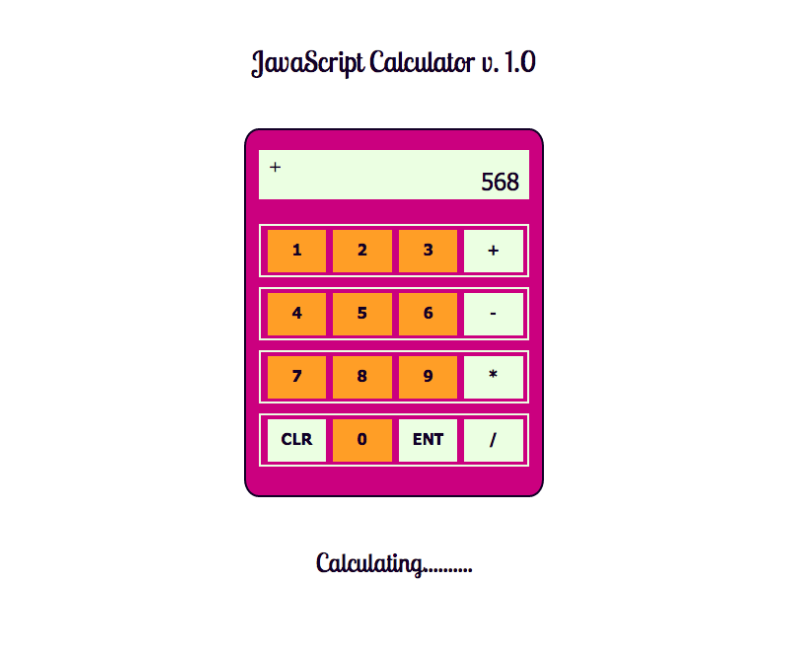
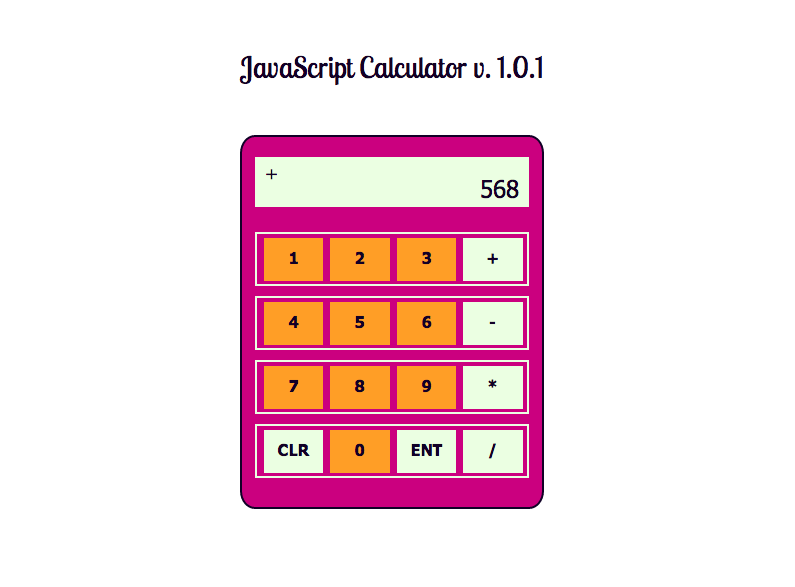
updated screenshot and refactored js

Changed region(s): [[0.2745, 0.184, 0.7014, 0.8893], [0.305, 0.0613, 0.7014, 0.1533]]

diff --git a/calculator.js b/calculator.js
@@ -1,7 +1,5 @@
 window.onload = function() {
 
-  ////////// VARIABLE DECLARATIONS
-
   // number button variable declarations
 
   var zeroButton = document.getElementById("zero");
@@ -32,28 +30,30 @@ window.onload = function() {
   var operatorDisplay = document.getElementById("operator_display");
   var resultDisplay = document.getElementById("result_display_value");
 
-  // div to hold text alerts during and after calculations
-
-  var calculateTracker = document.getElementById("calculate-tracker");
-
-  // number declarations
+  // variable holds hidden number
 
   var hiddenNum = "";
-
-
-  ////////// FUNCTIONS
 
   // number button function
 
   var numberFunction = function(numberButton) {
     numberButton.onclick = function(event) {
-      console.log(numberButton.innerHTML + ' was clicked!!!');
-      calculateTracker.innerHTML = 'Calculating..........';
       resultDisplay.innerHTML += numberButton.innerHTML;
-
-      console.log('The result display reads: ' + resultDisplay.innerHTML);
     }
   }
+
+  // number function calls
+
+  numberFunction(zeroButton);
+  numberFunction(oneButton);
+  numberFunction(twoButton);
+  numberFunction(threeButton);
+  numberFunction(fourButton);
+  numberFunction(fiveButton);
+  numberFunction(sixButton);
+  numberFunction(sevenButton);
+  numberFunction(eightButton);
+  numberFunction(nineButton);
 
   // operations function
 
@@ -76,50 +76,40 @@ window.onload = function() {
 
   var operatorFunction = function(operatorButton) {
     operatorButton.onclick = function(event) {
-      console.log(operatorButton.innerHTML + ' was clicked!!!');
-      
       if (resultDisplay.innerHTML !== "" && hiddenNum !== undefined) {
         operations(); 
       }
-
       hiddenNum = resultDisplay.innerHTML;
-      console.log('The held number is: ' + hiddenNum);
-
       resultDisplay.innerHTML = "";
       operatorDisplay.innerHTML = operatorButton.innerHTML;
     }
   }
 
+  // operator function calls
+
+  operatorFunction(plusButton);
+  operatorFunction(minusButton);
+  operatorFunction(timesButton);
+  operatorFunction(dividedByButton);
+
   // clear function
 
   var clearFunction = function(button, display) {
-    console.log('CLEARING!!!!!');
     display.innerHTML = "";
   }
-
-
-  ////////// CLEAR & ENTER
 
   // clear button
 
   clearButton.onclick = function(event) {
-    console.log('CLEAR was clicked!!!');
-
     clearFunction(clearButton, operatorDisplay);
     clearFunction(clearButton, resultDisplay);
-
-    calculateTracker.innerHTML = "";
     hiddenNum = "";
-
   }
 
   // enter button
 
   enterButton.onclick = function(event) {
-    console.log('ENTER was clicked!!!');
-
     if (resultDisplay.innerHTML === "") {
-
       if (operatorDisplay.innerHTML === "+") {
         resultDisplay.innerHTML = parseInt(hiddenNum) + parseInt(hiddenNum);
       }
@@ -133,37 +123,15 @@ window.onload = function() {
         resultDisplay.innerHTML = parseInt(hiddenNum) / parseInt(hiddenNum);
       }
     }
-
     else {
       operations();
     }
  
     clearFunction(enterButton, operatorDisplay);
-    console.log('The result is: ' + resultDisplay.innerHTML);
-    calculateTracker.innerHTML = 'The result is: ' + resultDisplay.innerHTML;
   }
 
-
-  ////////// FUNCTION CALLS
-
-  // number function calls
-
-  numberFunction(zeroButton);
-  numberFunction(oneButton);
-  numberFunction(twoButton);
-  numberFunction(threeButton);
-  numberFunction(fourButton);
-  numberFunction(fiveButton);
-  numberFunction(sixButton);
-  numberFunction(sevenButton);
-  numberFunction(eightButton);
-  numberFunction(nineButton);
-
-  // operator function calls
-
-  operatorFunction(plusButton);
-  operatorFunction(minusButton);
-  operatorFunction(timesButton);
-  operatorFunction(dividedByButton);
-
 }
+
+
+
+

diff --git a/calculator.html b/calculator.html
@@ -8,7 +8,7 @@
   <title>JavaScript Calculator</title>
 </head>
 <body>
-  <div id="heading">JavaScript Calculator v. 1.0</div>
+  <div id="heading">JavaScript Calculator v. 1.0.1</div>
   <div id="container">
      <div id="result_display">
        <div id="operator_display"></div>
@@ -44,7 +44,10 @@
      </div>
 
   </div>
-  <div id="calculate-tracker"></div>
 </body>
 
 </html>
+
+
+
+

diff --git a/style.css b/style.css
@@ -63,7 +63,7 @@ body {
 	background: #EBFFE2;
 }
 
-#calculate-tracker, #heading {
+#heading {
 	text-align: center;
 	margin: 50px auto;
 	font-family: 'Lobster Two', cursive;
@@ -71,6 +71,6 @@ body {
 	color: #120027;
 }
 
-#calculate-tracker {
-	font-size: 1.6em;
-}
+
+
+

diff --git a/README.md b/README.md
@@ -21,4 +21,4 @@ you decide what to do?
 
 ### Completed project:
 
-| | | | | | | | | | ![ScreenShot](screenshot.png)
+![ScreenShot](screenshot.png)
